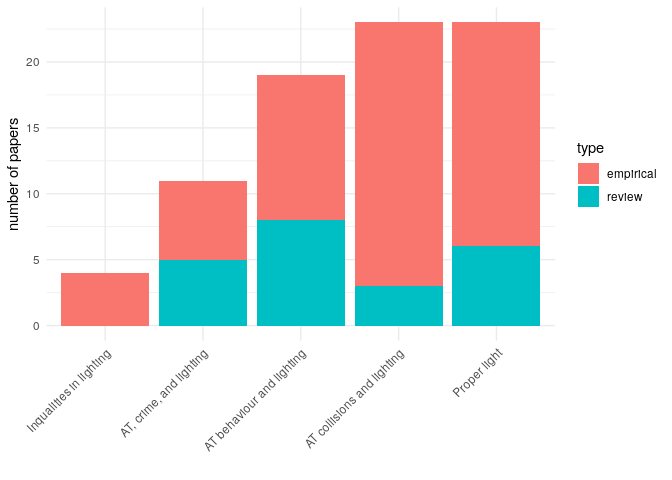
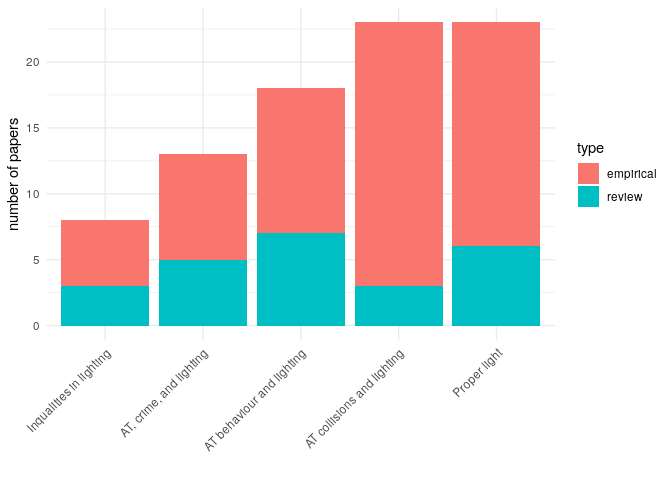
update

diff --git a/README.md b/README.md
@@ -145,8 +145,9 @@ The findings organized by these themes are shown below.
 
 There is evidence that street lighting influences physical activity and
 active travel levels (Lee and Moudon 2008; McCormack and Shiell 2011;
-Cerin et al. 2017; Lin Yang et al. 2017; Bonaccorsi et al. 2020;
-Linchuan Yang et al. 2022; Prince et al. 2022; Jin, Lu, and Sun 2022).
+Cerin et al. 2017; Annear et al. 2014; Peña-García, Hurtado, and
+Aguilar-Luzón 2015; Lin Yang et al. 2017; Bonaccorsi et al. 2020; Prince
+et al. 2022).
 
 Jin, Lu, and Sun (2022) found that streetlights influence pedestrians to
 select longer distance routes.
@@ -157,6 +158,28 @@ running but not with cycling.
 Steve Fotios and Robbins (2022) found that darkness leads to significant
 reductions in pedestrians and cyclists but does not have a significant
 effect on the number of motorized vehicles.
+
+Zacharias and Meng (2021) found street lighting highly significantly
+associated with higher uptake and deposit of dock-less shared bicycle
+trips.
+
+Qualitative research suggests that street lighting influences perceived
+safety and impacts the walkability of the neighbourhood (Rahm, Sternudd,
+and Johansson 2021).
+
+Locations with no road lighting showed a significantly greater reduction
+in cycling after-dark compared with locations that had some lighting. A
+nonlinear relationship was found between relative brightness at a
+location at night and the reduction in cyclists after-dark. Small
+initial increases in brightness resulted in large reductions in the
+difference between cyclist numbers in daylight and after-dark, but this
+effect reached a plateau as brightness increased (Uttley, Fotios, and
+Lovelace 2020).
+
+Odds ratios indicated the numbers of pedestrians and cyclists during the
+case period were significantly higher during daylight conditions than
+after-dark, resulting in a 62% increase in pedestrians and a 38%
+increase in cyclists (Uttley and Fotios 2017).
 
 <table class="table" style="margin-left: auto; margin-right: auto;">
 <caption>
@@ -407,20 +430,6 @@ empirical
 </tr>
 <tr>
 <td style="text-align:left;">
-Fotios, S., Unwin, J., Farrall, S.
-</td>
-<td style="text-align:right;">
-2015
-</td>
-<td style="text-align:left;">
-Road lighting and pedestrian reassurance after dark: A review
-</td>
-<td style="text-align:left;">
-review
-</td>
-</tr>
-<tr>
-<td style="text-align:left;">
 Annear, M., Keeling, S., Wilkinson, T., (…), Gidlow, B., Hopkins, H.
 </td>
 <td style="text-align:right;">
@@ -467,6 +476,11 @@ empirical
 </table>
 
 ## Active travel collisions and lighting
+
+One of the main reasons that physical activity and active travel
+decrease in the dark is the fear of being in a traffic crash. The
+pobability of suffering a traffic collision in the dark among walkers
+and cyclists is much greater than among other road users.
 
 <table class="table" style="margin-left: auto; margin-right: auto;">
 <caption>
@@ -836,6 +850,9 @@ empirical
 
 ## Active travel, crime, and lighting
 
+Another factor that seems to explain less use of walking and cycling is
+fear of crime.
+
 <table class="table" style="margin-left: auto; margin-right: auto;">
 <caption>
 Table 3: Overview of papers on active travel, crime, and lighting
@@ -857,6 +874,21 @@ type
 </tr>
 </thead>
 <tbody>
+<tr>
+<td style="text-align:left;">
+Rahm, J., Sternudd, C., Johansson, M.
+</td>
+<td style="text-align:right;">
+2021
+</td>
+<td style="text-align:left;">
+“In the evening, I don’t walk in the park”: The interplay between street
+lighting and greenery
+</td>
+<td style="text-align:left;">
+empirical
+</td>
+</tr>
 <tr>
 <td style="text-align:left;">
 Park, Y., Garcia, M.
@@ -911,6 +943,21 @@ Wu, S., Kim, M.
 <td style="text-align:left;">
 The relationship between the pedestrian lighting environment and
 perceived safety
+</td>
+<td style="text-align:left;">
+empirical
+</td>
+</tr>
+<tr>
+<td style="text-align:left;">
+Peña-García, A., Hurtado, A., Aguilar-Luzón, M.C.
+</td>
+<td style="text-align:right;">
+2015
+</td>
+<td style="text-align:left;">
+Impact of public lighting on pedestrians’ perception of safety and
+well-being
 </td>
 <td style="text-align:left;">
 empirical
@@ -1025,16 +1072,22 @@ empirical
 
 ## Inequalities in lighting
 
+Both the fear of having an accident and the fear of being a victim of
+crime seem to affect groups differently.
+
 ### Gender
 
-Women more sensitive to dark spaces when walking and cycling than men
-(Xie and Spinney 2018).
+Women are more sensitive to dark spaces when walking and cycling than
+men (Xie and Spinney 2018).
+
+Women expressed a greater proportion of the comments related to lighting
+(76%) and perceived safety (69%) (Rahm, Sternudd, and Johansson 2021).
 
 ### Age
 
 A review on environments and physical activity among children and youth
 found not a very consistent positive associations between street
-lighting and physical activity \[prince_examining_2022\].
+lighting and physical activity (Prince et al. 2022).
 
 <table class="table" style="margin-left: auto; margin-right: auto;">
 <caption>
@@ -1057,6 +1110,22 @@ type
 </tr>
 </thead>
 <tbody>
+<tr>
+<td style="text-align:left;">
+Prince, S.A., Lancione, S., Lang, J.J., (…), Merucci, K., Geneau, R.
+</td>
+<td style="text-align:right;">
+2022
+</td>
+<td style="text-align:left;">
+Examining the state, quality and strength of the evidence in the
+research on built environments and physical activity among children and
+youth: An overview of reviews from high income countries
+</td>
+<td style="text-align:left;">
+review
+</td>
+</tr>
 <tr>
 <td style="text-align:left;">
 Fotios, S., Uttley, J., Gorjimahlabani, S.
@@ -1101,6 +1170,53 @@ perceptions of security
 </td>
 <td style="text-align:left;">
 empirical
+</td>
+</tr>
+<tr>
+<td style="text-align:left;">
+Rahm, J., Sternudd, C., Johansson, M.
+</td>
+<td style="text-align:right;">
+2021
+</td>
+<td style="text-align:left;">
+“In the evening, I don’t walk in the park”: The interplay between street
+lighting and greenery
+</td>
+<td style="text-align:left;">
+empirical
+</td>
+</tr>
+<tr>
+<td style="text-align:left;">
+Bonaccorsi, G., Manzi, F., Del Riccio, M., (…), Dellisanti, C., Lorini,
+C.
+</td>
+<td style="text-align:right;">
+2020
+</td>
+<td style="text-align:left;">
+Impact of the built environment and the neighborhood in promoting the
+physical activity and the healthy aging in older people: An umbrella
+review
+</td>
+<td style="text-align:left;">
+review
+</td>
+</tr>
+<tr>
+<td style="text-align:left;">
+Annear, M., Keeling, S., Wilkinson, T., (…), Gidlow, B., Hopkins, H.
+</td>
+<td style="text-align:right;">
+2014
+</td>
+<td style="text-align:left;">
+Environmental influences on healthy and active ageing: A systematic
+review
+</td>
+<td style="text-align:left;">
+review
 </td>
 </tr>
 <tr>
@@ -1517,32 +1633,25 @@ increase and be safer?**
 # Conclusions
 
 <!-- Interpretation of the material. -->
-
-The review presented above highlights the need for more empirical work
-in the area of active travel uptake and road lighting. We plan to
-undertake some of this work over the coming months in the SATURN
-(Supporting Active Travel Using Road lighting at Night) project, which
-has been funded by the UK Research and Innovation body. During the
-project we plan to measure change in cycling levels, primarily through
-cyclists counts, and cycling safety due to darkness as inferred from
-models of cycling levels and high resolution casualty over multi year
-timescales and in a number of different locations. Comparing resulting
-estimates of change in cycling and safety levels will help assess the
-impact of lighting in those locations, but there is much else to do in
-this field beyond what is possible in a 24 month research project.
-Further work is needed to better understand how lighting characteristics
-such as illuminance and the spatial distribution of lighting influence
-cycling rates and cyclist safety. To ensure the policy relevance of
-future work into road lighting and cycling, it is important that the
-findings feed into larger models of cycling uptake to support cost
-effective investment in road and path lighting (S. Fotios et al. 2017),
-as part of balanced packages of interventions, for the benefit of people
-who stand to benefit from better walking, cycling and wheeling provision
-worldwide.
+<!-- The review presented above highlights the need for more empirical work in the area of active travel uptake and road lighting. -->
+<!-- We plan to undertake some of this work over the coming months in the SATURN (Supporting Active Travel Using Road lighting at Night) project, which has been funded by the UK Research and Innovation body. -->
+<!-- During the project we plan to measure change in cycling levels, primarily through cyclists counts, and cycling safety due to darkness as inferred from models of cycling levels and high resolution casualty over multi year timescales and in a number of different locations. -->
+<!-- Comparing resulting estimates of change in cycling and safety levels will help assess the impact of lighting in those locations, but there is much else to do in this field beyond what is possible in a 24 month research project. -->
+<!-- Further work is needed to better understand how lighting characteristics such as illuminance and the spatial distribution of lighting influence cycling rates and cyclist safety. -->
+<!-- To ensure the policy relevance of future work into road lighting and cycling, it is important that the findings feed into larger models of cycling uptake to support cost effective investment in road and path lighting [@fotios_pilot_2017], as part of balanced packages of interventions, for the benefit of people who stand to benefit from better walking, cycling and wheeling provision worldwide. -->
 
 # References
 
 <div id="refs" class="references csl-bib-body hanging-indent">
+
+<div id="ref-annear_environmental_2014" class="csl-entry">
+
+Annear, Michael, Sally Keeling, Tim Wilkinson, Grant Cushman, Bob
+Gidlow, and Heather Hopkins. 2014. “Environmental Influences on Healthy
+and Active Ageing: A Systematic Review.” *Ageing and Society* 34 (4):
+590–622. <https://doi.org/10.1017/S0144686X1200116X>.
+
+</div>
 
 <div id="ref-bonaccorsi_impact_2020" class="csl-entry">
 
@@ -1591,14 +1700,6 @@ Review.” *Lighting Research & Technology* 49 (3): 381–95.
 
 </div>
 
-<div id="ref-fotios_pilot_2017" class="csl-entry">
-
-Fotios, S, H Qasem, C Cheal, and J Uttley. 2017. “A Pilot Study of Road
-Lighting, Cycle Lighting and Obstacle Detection.” *Lighting Research &
-Technology* 49 (5): 586–602. <https://doi.org/10.1177/1477153515625103>.
-
-</div>
-
 <div id="ref-fotios_effect_2022" class="csl-entry">
 
 Fotios, Steve, and Chloe Jade Robbins. 2022. “Effect of Ambient Light on
@@ -1635,6 +1736,15 @@ Nutrition and Physical Activity* 8.
 
 </div>
 
+<div id="ref-pena-garcia_impact_2015" class="csl-entry">
+
+Peña-García, A., A. Hurtado, and M. C. Aguilar-Luzón. 2015. “Impact of
+Public Lighting on Pedestrians’ Perception of Safety and Well-Being.”
+*Safety Science* 78 (October): 142–48.
+<https://doi.org/10.1016/j.ssci.2015.04.009>.
+
+</div>
+
 <div id="ref-prince_examining_2022" class="csl-entry">
 
 Prince, Stephanie A., Samantha Lancione, Justin J. Lang, Nana Amankwah,
@@ -1644,6 +1754,33 @@ Evidence in the Research on Built Environments and Physical Activity
 Among Children and Youth: An Overview of Reviews from High Income
 Countries.” *Health & Place* 76 (July): 102828.
 <https://doi.org/10.1016/j.healthplace.2022.102828>.
+
+</div>
+
+<div id="ref-rahm_evening_2021" class="csl-entry">
+
+Rahm, Johan, Catharina Sternudd, and Maria Johansson. 2021. “‘In the
+Evening, I Don’t Walk in the Park’: The Interplay Between Street
+Lighting and Greenery in Perceived Safety.” *URBAN DESIGN International*
+26 (1): 42–52. <https://doi.org/10.1057/s41289-020-00134-6>.
+
+</div>
+
+<div id="ref-uttley_using_2017" class="csl-entry">
+
+Uttley, Jim, and Steve Fotios. 2017. “Using the Daylight Savings Clock
+Change to Show Ambient Light Conditions Significantly Influence Active
+Travel.” *Journal of Environmental Psychology* 53 (November): 1–10.
+<https://doi.org/10.1016/j.jenvp.2017.06.003>.
+
+</div>
+
+<div id="ref-uttley_road_2020" class="csl-entry">
+
+Uttley, Jim, Steve Fotios, and Robin Lovelace. 2020. “Road Lighting
+Density and Brightness Linked with Increased Cycling Rates After-Dark.”
+Edited by Quan Yuan. *PLOS ONE* 15 (5): e0233105.
+<https://doi.org/10.1371/journal.pone.0233105>.
 
 </div>
 
@@ -1672,6 +1809,15 @@ Yang, Lin, Simon Griffin, Kay-Tee Khaw, Nick Wareham, and Jenna Panter.
 2017. “Longitudinal Associations Between Built Environment
 Characteristics and Changes in Active Commuting.” *BMC Public Health* 17
 (1): 458. <https://doi.org/10.1186/s12889-017-4396-3>.
+
+</div>
+
+<div id="ref-zacharias_environmental_2021" class="csl-entry">
+
+Zacharias, John, and Si’an Meng. 2021. “Environmental Correlates of
+Dock-Less Shared Bicycle Trip Origins and Destinations.” *Journal of
+Transport Geography* 92 (April): 103013.
+<https://doi.org/10.1016/j.jtrangeo.2021.103013>.
 
 </div>
 
